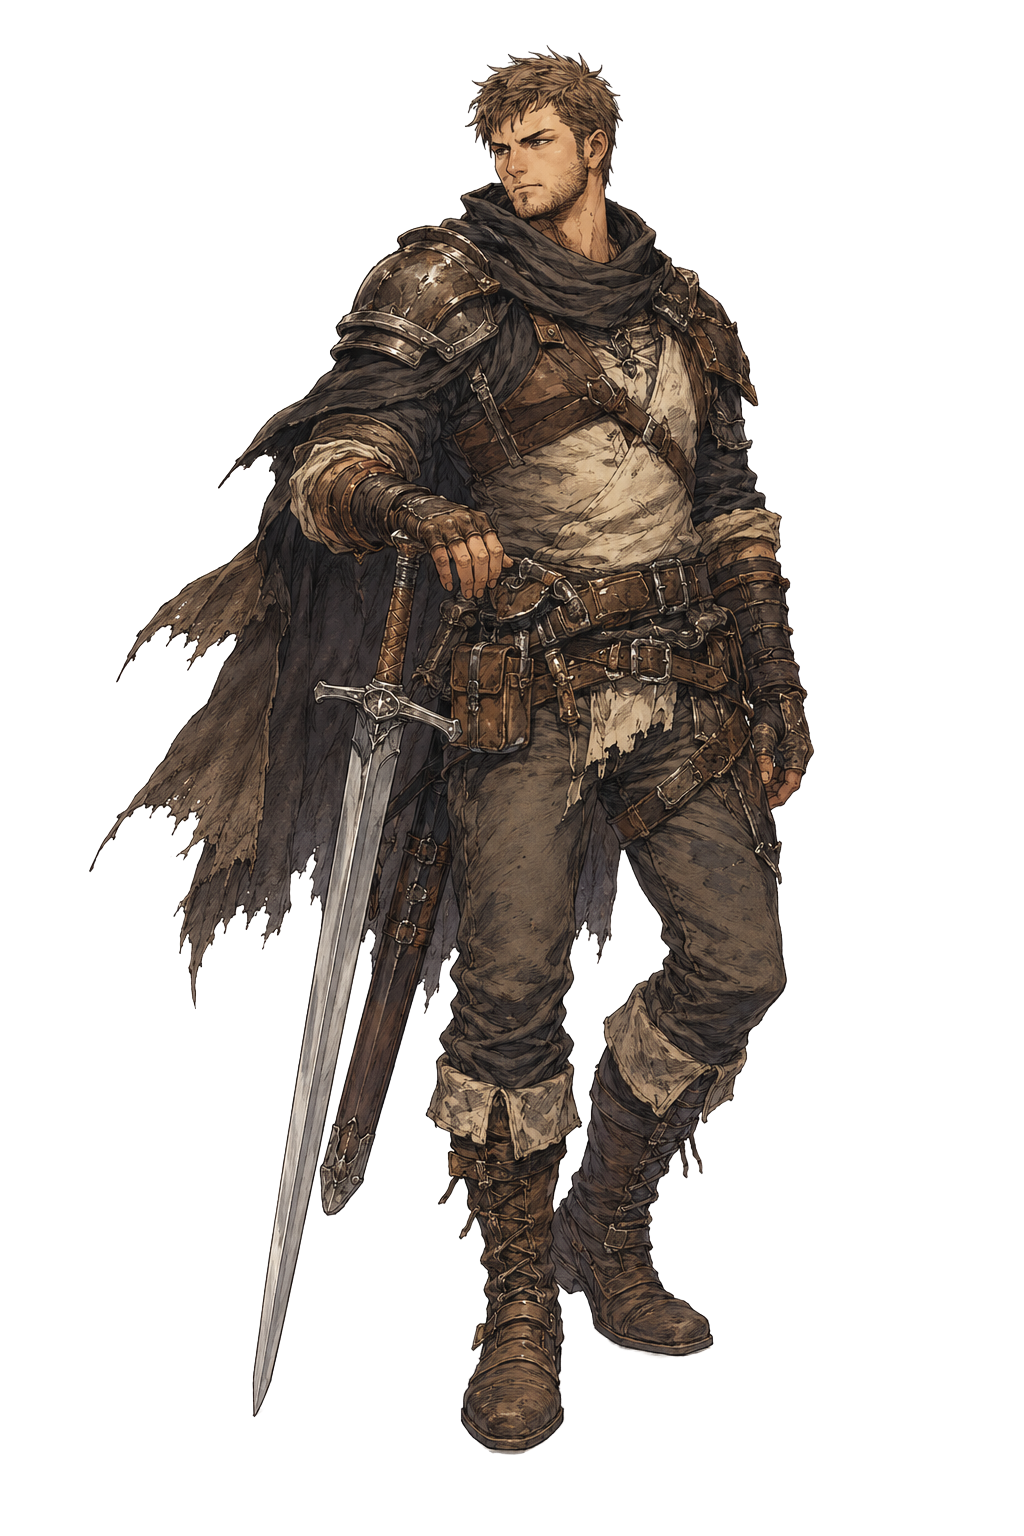
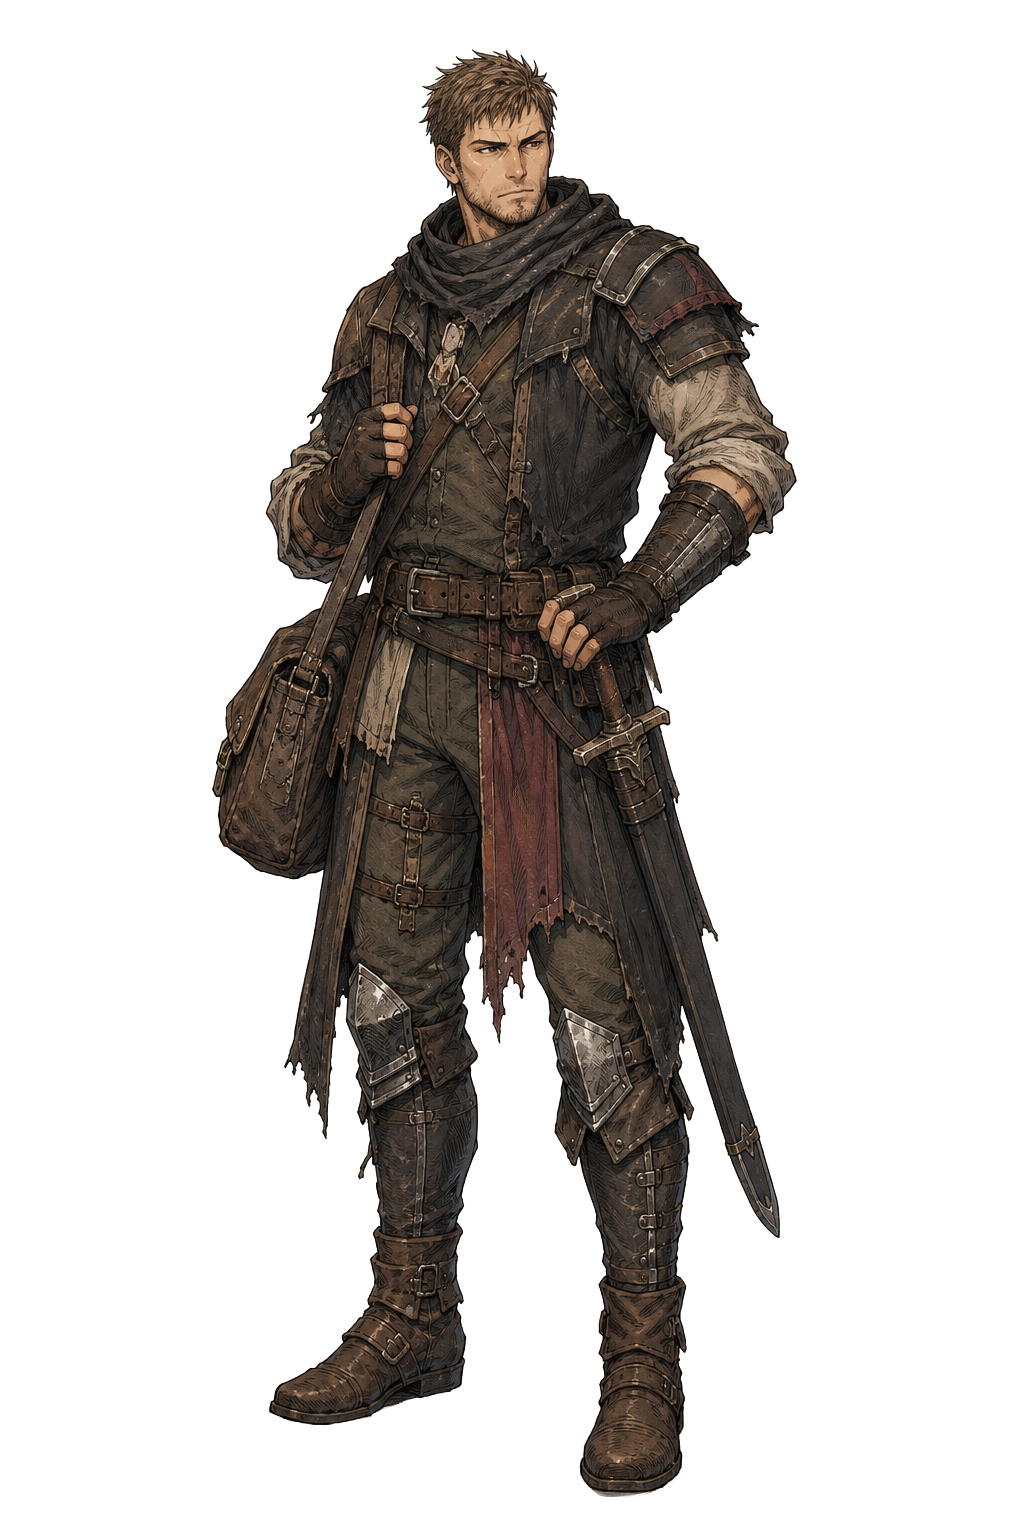
キーヴァルの画像を差し替え

diff --git a/people/entries/darius-haldan.html b/people/entries/darius-haldan.html
@@ -1,0 +1,129 @@
+<!DOCTYPE html>
+<html lang="ja">
+<head>
+  <meta charset="UTF-8">
+  <meta name="viewport" content="width=device-width, initial-scale=1.0">
+  <meta name="description" content="ダリウス・ハルダンの人物詳細。">
+  <title>ダリウス・ハルダン | Old Unknown</title>
+  <link rel="stylesheet" href="../../css/base.css">
+  <link rel="stylesheet" href="../../css/themes.css">
+  <link rel="stylesheet" href="../../css/layout.css">
+  <link rel="stylesheet" href="../../css/components.css">
+  <link rel="stylesheet" href="../../css/pages.css">
+  <script src="../../js/navigation.js" defer></script>
+  <script src="../../js/archive-categories.js" defer></script>
+  <script src="../../js/main.js" defer></script>
+</head>
+<body data-archive-category="people">
+  <a class="skip-link" href="#main-content">本文へ移動</a>
+
+  <header class="site-header" data-site-header>
+    <div class="site-header__inner">
+      <a class="site-brand" href="../../index.html" aria-label="Old Unknown トップページ">
+        <span class="site-brand__mark" aria-hidden="true">O</span>
+        <span class="site-brand__text">
+          <span class="site-brand__name">Old Unknown</span>
+          <span class="site-brand__sub">Official Lore Archive</span>
+        </span>
+      </a>
+      <button class="nav-toggle" type="button" aria-expanded="false" aria-controls="site-navigation" data-nav-toggle>
+        <span class="nav-toggle__line" aria-hidden="true"></span>
+        <span class="nav-toggle__text">Menu</span>
+      </button>
+      <nav class="site-nav" id="site-navigation" aria-label="主要ナビゲーション" data-site-nav>
+        <ul class="site-nav__list">
+          <li><a href="../../world/index.html">世界観</a></li>
+          <li><a href="../../nations/index.html">国家</a></li>
+          <li><a href="../../glossary/index.html">用語集</a></li>
+        </ul>
+      </nav>
+    </div>
+  </header>
+
+  <main id="main-content">
+    <section class="page-hero page-hero--with-image">
+      <div class="page-hero__inner">
+        <nav class="breadcrumb" aria-label="パンくずリスト">
+          <ol>
+            <li><a href="../../index.html">Old Unknown</a></li>
+            <li><a href="../index.html">人物</a></li>
+            <li aria-current="page">ダリウス・ハルダン</li>
+          </ol>
+        </nav>
+        <p class="eyebrow">People Archive</p>
+        <h1>ダリウス・ハルダン</h1>
+        <p class="template-lead">元冒険者としての経験と確かな鑑定眼で、フィンリッジの暮らしを支える雑貨店店主。</p>
+        <figure class="page-hero__visual person-hero__visual">
+          <img src="../../assets/people/full-darius-haldan.png" alt="ダリウス・ハルダンの全身像">
+        </figure>
+      </div>
+    </section>
+
+    <section class="section">
+      <div class="section__inner archive-entry">
+        <aside class="lore-panel" aria-labelledby="profile-title">
+          <h2 id="profile-title">プロフィール</h2>
+          <dl class="template-profile">
+            <div><dt>名前</dt><dd>ダリウス・ハルダン</dd></div>
+            <div><dt>英語表記</dt><dd>Darius Haldan</dd></div>
+            <div><dt>性別</dt><dd>男性</dd></div>
+            <div><dt>種族</dt><dd>人族</dd></div>
+            <div><dt>出身</dt><dd>フィンリッジ</dd></div>
+            <div><dt>居住地</dt><dd>フィンリッジ</dd></div>
+            <div><dt>所属</dt><dd>ベルモーシア公国</dd></div>
+            <div><dt>職業・立場</dt><dd>雑貨店店主</dd></div>
+          </dl>
+        </aside>
+
+        <article class="entry-body">
+          <section>
+            <h2>性格</h2>
+            <p>面倒見がよく、気さくで人当たりのよい性格。</p>
+            <p>村人とは身分や年齢に関係なく分け隔てなく接し、子供相手にも一人の人間として気軽に話すため、村では親しみやすい人物として知られている。頼み事をされれば多少の手間であれば快く引き受ける。</p>
+            <p>普段は細かいことを気にしない大らかな態度を見せる一方、商売に関しては現実的で抜け目がない。</p>
+            <p>長年培った鑑定眼と相場の知識を持ち、商品の価値を冷静に見極める。値段交渉にも長けているが、相手を言い負かして安く買い叩くような商売は好まず、互いに納得できる落としどころを探ることを得意としている。</p>
+            <p>元冒険者ということもあり、多少の危険や予想外の出来事には動じにくい。</p>
+            <p>ただし無鉄砲というわけではなく、必要なところではきちんと筋を通す常識人でもある。</p>
+          </section>
+          <section>
+            <h2>個性</h2>
+            <p>幼い頃からさまざまな武具や道具に触れてきたため、珍しい品物や初めて見る品を前にすると、つい作りや材質を確かめてしまう癖がある。値段交渉など商売上の駆け引きも好み、相手とのやり取りそのものを楽しんでいる。</p>
+          </section>
+          <section>
+            <h2>特技</h2>
+            <p>値段交渉</p>
+          </section>
+          <section>
+            <h2>能力・スキル</h2>
+            <p>身体強化、鑑定</p>
+          </section>
+          <section>
+            <h2>経歴</h2>
+            <p>リューベンとセリーヌの息子としてフィンリッジ村に生まれる。</p>
+            <p>幼い頃から、母セリーヌに初歩的な薬師の知識とポーションの調合技術を、父リューベンに武器の扱いと鍛冶技術を教わって育った。</p>
+            <p>また、幼い頃からさまざまな武具や道具に触れてきたことで、品物の良し悪しを見極める鋭い鑑定眼を身につけている。</p>
+            <p>10代後半で冒険者となり、最高Dランクまで昇格。</p>
+            <p>冒険者として各地を巡ったのち、活動中に蓄えた資金を元手に故郷フィンリッジへ戻り、雑貨屋を開いた。</p>
+            <p>それまで村の日用品や道具の多くは定期的に訪れる行商人に頼っていたため、現在では村の生活を支える店の一つとなっている。</p>
+            <p>現在は独身。カシアンとは親友で、たびたび教会を訪れている。</p>
+          </section>
+          <section>
+            <h2>関連リンク</h2>
+            <ul class="related-links">
+              <li><a href="../index.html">人物一覧へ戻る</a></li>
+              <li><a href="../../nations/index.html">国家</a></li>
+            </ul>
+          </section>
+        </article>
+      </div>
+    </section>
+  </main>
+
+  <footer class="site-footer">
+    <div class="site-footer__inner">
+      <p class="site-footer__brand">Old Unknown</p>
+      <p class="site-footer__note">Official high fantasy world archive.</p>
+    </div>
+  </footer>
+</body>
+</html>

diff --git a/en/people/entries/darius-haldan.html b/en/people/entries/darius-haldan.html
@@ -1,0 +1,124 @@
+<!DOCTYPE html>
+<html lang="en">
+<head>
+  <meta charset="UTF-8">
+  <meta name="viewport" content="width=device-width, initial-scale=1.0">
+  <meta name="description" content="Old Unknown character profile for Darius Haldan.">
+  <title>Darius Haldan | Old Unknown</title>
+  <link rel="stylesheet" href="../../../css/base.css">
+  <link rel="stylesheet" href="../../../css/themes.css">
+  <link rel="stylesheet" href="../../../css/layout.css">
+  <link rel="stylesheet" href="../../../css/components.css">
+  <link rel="stylesheet" href="../../../css/pages.css">
+  <script src="../../../js/navigation.js" defer></script>
+  <script src="../../../js/archive-categories.js" defer></script>
+  <script src="../../../js/main.js" defer></script>
+</head>
+<body data-archive-category="people">
+  <a class="skip-link" href="#main-content">Skip to main content</a>
+
+  <header class="site-header" data-site-header>
+    <div class="site-header__inner">
+      <a class="site-brand" href="../../index.html" aria-label="Old Unknown home">
+        <span class="site-brand__mark" aria-hidden="true">O</span>
+        <span class="site-brand__text">
+          <span class="site-brand__name">Old Unknown</span>
+          <span class="site-brand__sub">Official Lore Archive</span>
+        </span>
+      </a>
+      <button class="nav-toggle" type="button" aria-expanded="false" aria-controls="site-navigation" data-nav-toggle>
+        <span class="nav-toggle__line" aria-hidden="true"></span>
+        <span class="nav-toggle__text">Menu</span>
+      </button>
+      <nav class="site-nav" id="site-navigation" aria-label="Main navigation" data-site-nav>
+        <ul class="site-nav__list">
+          <li><a href="../../world/index.html">World</a></li>
+          <li><a href="../../nations/index.html">Nations</a></li>
+          <li><a href="../../glossary/index.html">Glossary</a></li>
+        </ul>
+      </nav>
+    </div>
+  </header>
+
+  <main id="main-content">
+    <section class="page-hero page-hero--with-image">
+      <div class="page-hero__inner">
+        <nav class="breadcrumb" aria-label="Breadcrumb">
+          <ol>
+            <li><a href="../../index.html">Old Unknown</a></li>
+            <li><a href="../index.html">People</a></li>
+            <li aria-current="page">Darius Haldan</li>
+          </ol>
+        </nav>
+        <p class="eyebrow">People Archive</p>
+        <h1>Darius Haldan</h1>
+        <p class="template-lead">A former adventurer and shrewd appraiser who supports daily life in Finridge through his general store.</p>
+        <figure class="page-hero__visual person-hero__visual">
+          <img src="../../../assets/people/full-darius-haldan.png" alt="Full-body portrait of Darius Haldan">
+        </figure>
+      </div>
+    </section>
+
+    <section class="section">
+      <div class="section__inner archive-entry">
+        <aside class="lore-panel" aria-labelledby="profile-title">
+          <h2 id="profile-title">Profile</h2>
+          <dl class="template-profile">
+            <div><dt>Name</dt><dd>Darius Haldan</dd></div>
+            <div><dt>Gender</dt><dd>Male</dd></div>
+            <div><dt>Race</dt><dd>Human</dd></div>
+            <div><dt>Origin</dt><dd>Finridge</dd></div>
+            <div><dt>Residence</dt><dd>Finridge</dd></div>
+            <div><dt>Affiliation</dt><dd>Principality of Bermouthia</dd></div>
+            <div><dt>Occupation / Role</dt><dd>General store proprietor</dd></div>
+          </dl>
+        </aside>
+
+        <article class="entry-body">
+          <section>
+            <h2>Personality</h2>
+            <p>Darius is caring, easygoing, and friendly. He treats villagers equally regardless of status or age and speaks casually even with children, who know him as an approachable figure. If someone asks for a favor that requires only a little effort, he readily agrees.</p>
+            <p>Although usually unconcerned with minor details, he is practical and astute in business. Years of experience have given him a keen eye for appraisal and a strong knowledge of market prices, allowing him to judge an item's value calmly.</p>
+            <p>He is skilled at negotiating prices, but dislikes haggling someone down through argument. Instead, he excels at finding terms both sides can accept.</p>
+            <p>His experience as a former adventurer keeps him composed in the face of moderate danger or unexpected events. He is not reckless, however, and remains a sensible man who observes proper conduct when it matters.</p>
+          </section>
+          <section>
+            <h2>Individual Traits</h2>
+            <p>Having handled many kinds of weapons and tools since childhood, Darius instinctively examines the construction and materials of any rare or unfamiliar item he encounters. He also enjoys commercial bargaining, taking pleasure in the exchange itself.</p>
+          </section>
+          <section>
+            <h2>Specialty</h2>
+            <p>Price negotiation</p>
+          </section>
+          <section>
+            <h2>Abilities and Skills</h2>
+            <p>Physical enhancement and appraisal</p>
+          </section>
+          <section>
+            <h2>Background</h2>
+            <p>Darius was born in Finridge Village as the son of Ruben and Céline. From childhood, Céline taught him basic apothecary knowledge and potion preparation, while Ruben taught him how to handle weapons and practice smithing.</p>
+            <p>His early exposure to a wide variety of arms and tools also developed his sharp eye for judging the quality of goods.</p>
+            <p>He became an adventurer in his late teens and advanced as far as D rank. After traveling widely, he returned to his native Finridge with the money he had saved and opened a general store.</p>
+            <p>Until then, the village had depended on visiting merchants for many everyday necessities and tools. His shop has since become one of the businesses that support daily life in Finridge.</p>
+            <p>Darius is currently unmarried. Cassian is his close friend, and he often visits the church.</p>
+          </section>
+          <section>
+            <h2>Related Links</h2>
+            <ul class="related-links">
+              <li><a href="../index.html">Back to People</a></li>
+              <li><a href="../../nations/index.html">Nations</a></li>
+            </ul>
+          </section>
+        </article>
+      </div>
+    </section>
+  </main>
+
+  <footer class="site-footer">
+    <div class="site-footer__inner">
+      <p class="site-footer__brand">Old Unknown</p>
+      <p class="site-footer__note">Official high fantasy world archive.</p>
+    </div>
+  </footer>
+</body>
+</html>

diff --git a/js/people-database.js b/js/people-database.js
@@ -22,21 +22,29 @@
   function translateValue(value) {
     var translations = {
       "ベルモーシア公国": "Principality of Bermouthia",
+      "ベルモーシア公国 / 自警団": "Principality of Bermouthia / Finridge village watch",
       "タレンフォール要塞公国": "Fortress Duchy of Tarrenfall",
+      "クローネ家 / リオンコート家": "Krone family / Lioncourt family",
+      "首都シャールカタフの冒険者ギルド本部": "Adventurers Guild Headquarters in Skar'kataph",
       "人族": "Human",
       "男性": "Male",
       "女性": "Female",
       "村長": "Village chief",
       "鍛冶師": "Blacksmith",
+      "村長・鍛冶師": "Village chief / Blacksmith",
       "主婦": "Homemaker",
       "薬師": "Apothecary",
       "錬金術師": "Alchemist",
+      "主婦・錬金術師・薬師": "Homemaker / Alchemist / Apothecary",
+      "錬金術師・薬師": "Alchemist / Apothecary",
       "無所属": "None",
       "ドルガフ村": "Dolgaf Village",
       "司祭": "Priest",
       "Bランク冒険者": "B-rank adventurer",
       "店主": "Shopkeeper",
+      "雑貨店店主": "General store proprietor",
       "自警団員": "Militia member",
+      "フィンリッジ村自警団団長": "Captain of the Finridge village watch",
       "冒険者": "Adventurer",
       "なし": "None"
     };

diff --git a/js/people-data.js b/js/people-data.js
@@ -222,6 +222,25 @@
       appearanceOrder: 18,
       image: "../assets/people/portrait-barks-harland.png",
       detailUrl: "entries/barks-harland.html"
+    },
+    {
+      id: "darius-haldan",
+      name: "ダリウス・ハルダン",
+      englishName: "Darius Haldan",
+      gender: "男性",
+      race: "人族",
+      origin: "フィンリッジ",
+      residence: "フィンリッジ",
+      nation: "ベルモーシア公国",
+      affiliation: "ベルモーシア公国",
+      occupation: "雑貨店店主",
+      attribute: "",
+      epithet: "",
+      specialty: "値段交渉・身体強化・鑑定",
+      appearanceOrder: 19,
+      image: "../assets/people/portrait-darius-haldan.png",
+      pending: true,
+      detailUrl: "entries/darius-haldan.html"
     }
   ];
 })();
